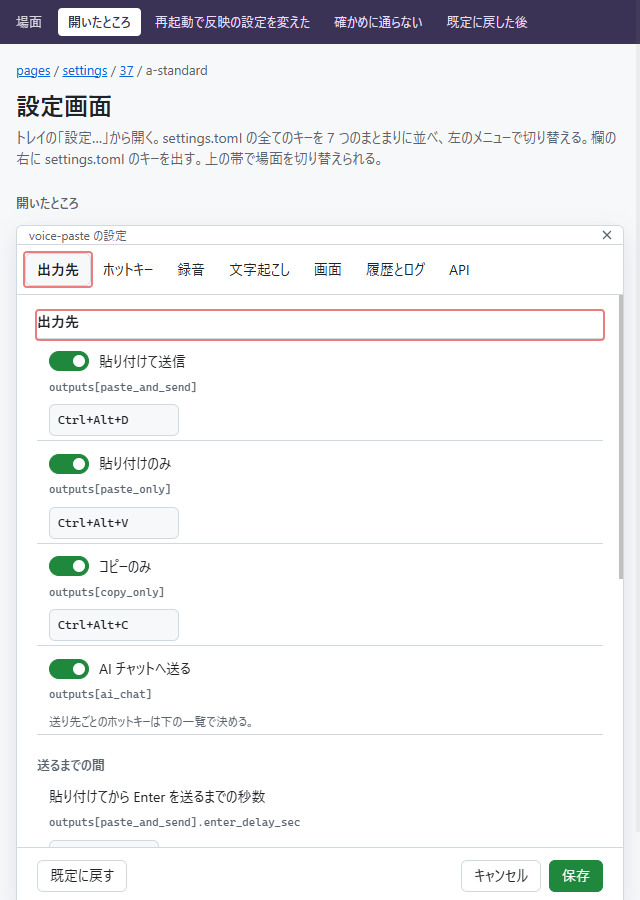
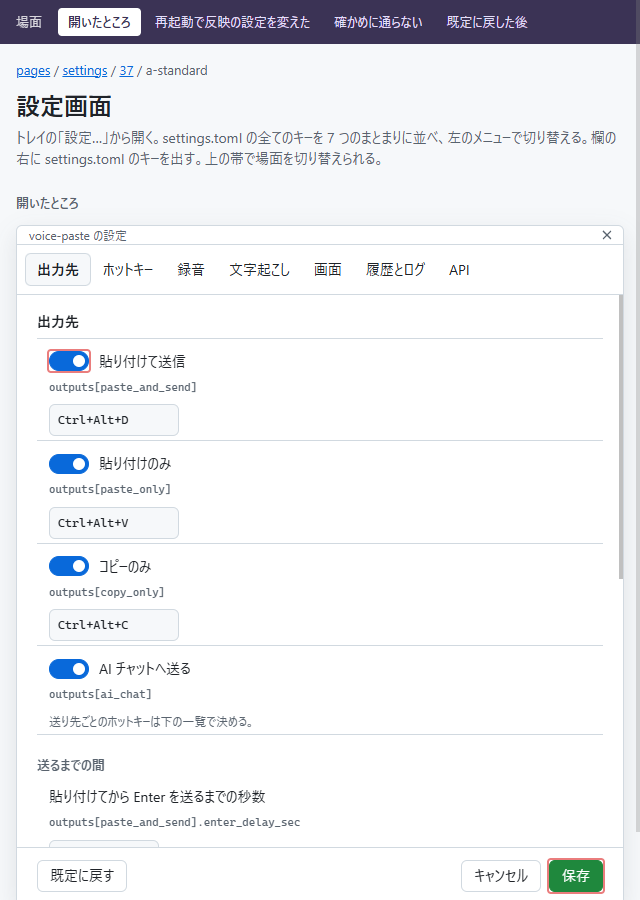
design: PR 37 の設定画面で中くらいの幅のつまみと欄の名前が潰れないようにする

diff --git a/dev/mock/refs/37/assets/style.css b/dev/mock/refs/37/assets/style.css
@@ -1088,3 +1088,14 @@ ul.scene-note { padding-left: 20px; }
 
 /* 1 列の格子の見本の窓: 設定画面の欄と同じ幅にする */
 .desk--single .win.settings__form { max-width: 640px; }
+
+/* 切り替えのつまみ: 行が狭くても縮めない */
+.switch input { flex: none; }
+
+/* 中くらいの幅: 欄の名前に幅を残し、設定のキーを折り返す */
+@media (min-width: 641px) {
+  /* 欄の行: 名前の列に最低の幅を持たせる */
+  .row { grid-template-columns: minmax(9em, 1fr) minmax(0, max-content) auto; }
+  /* 設定のキー: 長いキーは列の中で折り返す */
+  .row .key { min-width: 0; overflow-wrap: anywhere; text-align: right; }
+}
